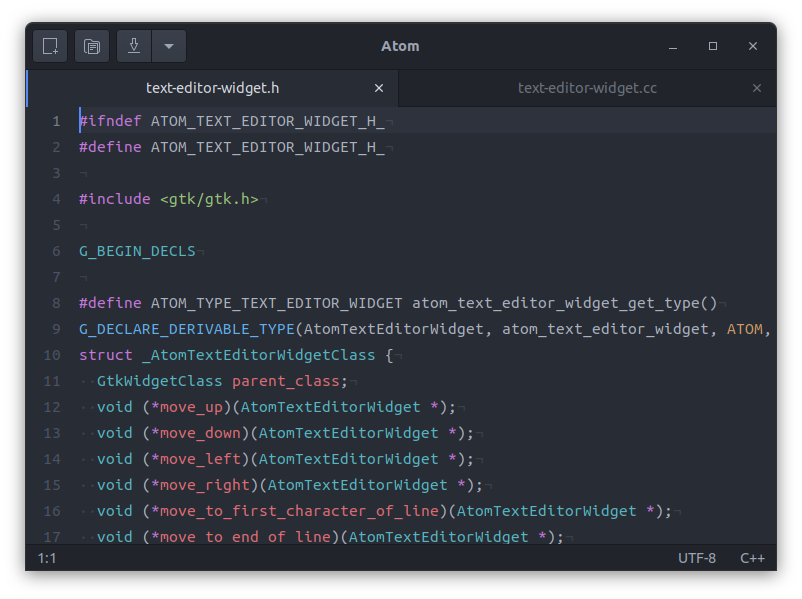
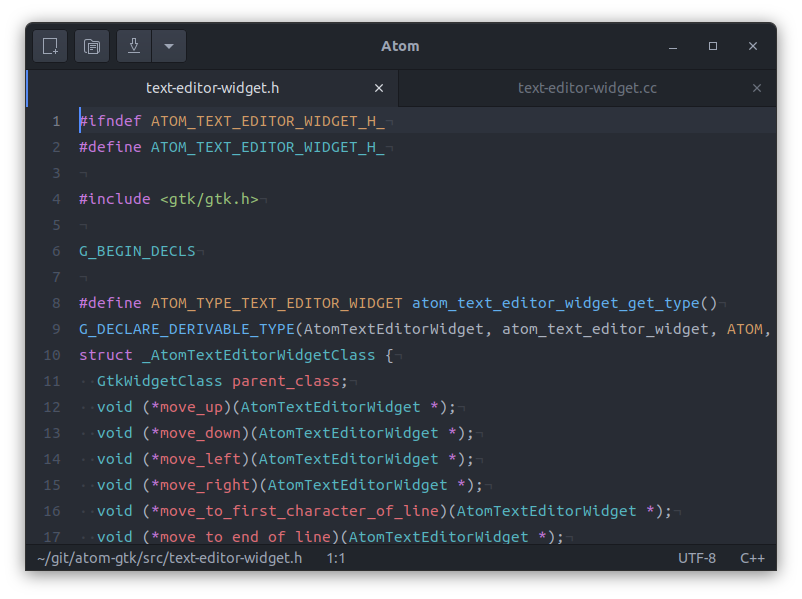
statusbar improvements

diff --git a/data/one-dark.scss b/data/one-dark.scss
@@ -444,8 +444,5 @@ window {
     background-color: $level-3-color;
     border-top: 1px solid $base-border-color;
     color: $text-color;
-    label {
-      padding: 0 0.75em;
-    }
   }
 }

diff --git a/src/text-editor-widget.cc b/src/text-editor-widget.cc
@@ -13,6 +13,7 @@
 #include <bracket-matcher-view.h>
 #include <select-next.h>
 #include <whitespace.h>
+#include <fs-plus.h>
 
 extern "C" TreeSitterGrammar *atom_language_c();
 extern "C" TreeSitterGrammar *atom_language_cpp();
@@ -324,6 +325,7 @@ typedef enum {
   PROP_VSCROLL_POLICY,
   PROP_TITLE,
   PROP_MODIFIED,
+  PROP_PATH,
   PROP_CURSOR_POSITION,
   PROP_SELECTION_COUNT,
   PROP_GRAMMAR,
@@ -376,6 +378,7 @@ AtomTextEditorWidget *atom_text_editor_widget_new(GFile *file) {
   });
   priv->text_editor->onDidChangeModified([self]() {
     g_object_notify(G_OBJECT(self), "modified");
+    g_object_notify(G_OBJECT(self), "path");
   });
   priv->text_editor->onDidChangeGrammar([self]() {
     g_object_notify(G_OBJECT(self), "grammar");
@@ -584,6 +587,7 @@ static void atom_text_editor_widget_class_init(AtomTextEditorWidgetClass *klass)
   g_object_class_override_property(G_OBJECT_CLASS(klass), PROP_VSCROLL_POLICY, "vscroll-policy");
   g_object_class_install_property(G_OBJECT_CLASS(klass), PROP_TITLE, g_param_spec_string("title", NULL, NULL, NULL, (GParamFlags)(G_PARAM_READABLE | G_PARAM_STATIC_STRINGS)));
   g_object_class_install_property(G_OBJECT_CLASS(klass), PROP_MODIFIED, g_param_spec_boolean("modified", NULL, NULL, FALSE, (GParamFlags)(G_PARAM_READABLE | G_PARAM_STATIC_STRINGS)));
+  g_object_class_install_property(G_OBJECT_CLASS(klass), PROP_PATH, g_param_spec_string("path", NULL, NULL, NULL, (GParamFlags)(G_PARAM_READABLE | G_PARAM_STATIC_STRINGS)));
   g_object_class_install_property(G_OBJECT_CLASS(klass), PROP_CURSOR_POSITION, g_param_spec_string("cursor-position", NULL, NULL, NULL, (GParamFlags)(G_PARAM_READABLE | G_PARAM_STATIC_STRINGS)));
   g_object_class_install_property(G_OBJECT_CLASS(klass), PROP_SELECTION_COUNT, g_param_spec_string("selection-count", NULL, NULL, NULL, (GParamFlags)(G_PARAM_READABLE | G_PARAM_STATIC_STRINGS)));
   g_object_class_install_property(G_OBJECT_CLASS(klass), PROP_GRAMMAR, g_param_spec_string("grammar", NULL, NULL, NULL, (GParamFlags)(G_PARAM_READABLE | G_PARAM_STATIC_STRINGS)));
@@ -708,6 +712,9 @@ static void atom_text_editor_widget_get_property(GObject *object, guint property
     case PROP_MODIFIED:
       g_value_set_boolean(value, atom_text_editor_widget_get_modified(self));
       break;
+    case PROP_PATH:
+      g_value_take_string(value, atom_text_editor_widget_get_path(self));
+      break;
     case PROP_CURSOR_POSITION:
       g_value_take_string(value, atom_text_editor_widget_get_cursor_position(self));
       break;
@@ -795,6 +802,20 @@ gchar *atom_text_editor_widget_get_title(AtomTextEditorWidget *self) {
 gboolean atom_text_editor_widget_get_modified(AtomTextEditorWidget *self) {
   AtomTextEditorWidgetPrivate *priv = GET_PRIVATE(self);
   return priv->text_editor->isModified();
+}
+
+gchar *atom_text_editor_widget_get_path(AtomTextEditorWidget *self) {
+  AtomTextEditorWidgetPrivate *priv = GET_PRIVATE(self);
+  std::string path;
+  if (optional<std::string> fullPath = priv->text_editor->getPath()) {
+    path = fsPlus::tildify(*fullPath);
+  } else {
+    path = priv->text_editor->getTitle();
+  }
+  if (priv->text_editor->isModified()) {
+    path += '*';
+  }
+  return g_strdup(path.c_str());
 }
 
 gchar *atom_text_editor_widget_get_cursor_position(AtomTextEditorWidget *self) {

diff --git a/src/text-editor-widget.h b/src/text-editor-widget.h
@@ -70,6 +70,7 @@ struct _AtomTextEditorWidgetClass {
 AtomTextEditorWidget *atom_text_editor_widget_new(GFile *);
 gchar *atom_text_editor_widget_get_title(AtomTextEditorWidget *);
 gboolean atom_text_editor_widget_get_modified(AtomTextEditorWidget *);
+gchar *atom_text_editor_widget_get_path(AtomTextEditorWidget *);
 gchar *atom_text_editor_widget_get_cursor_position(AtomTextEditorWidget *);
 gchar *atom_text_editor_widget_get_selection_count(AtomTextEditorWidget *);
 const gchar *atom_text_editor_widget_get_grammar(AtomTextEditorWidget *);
